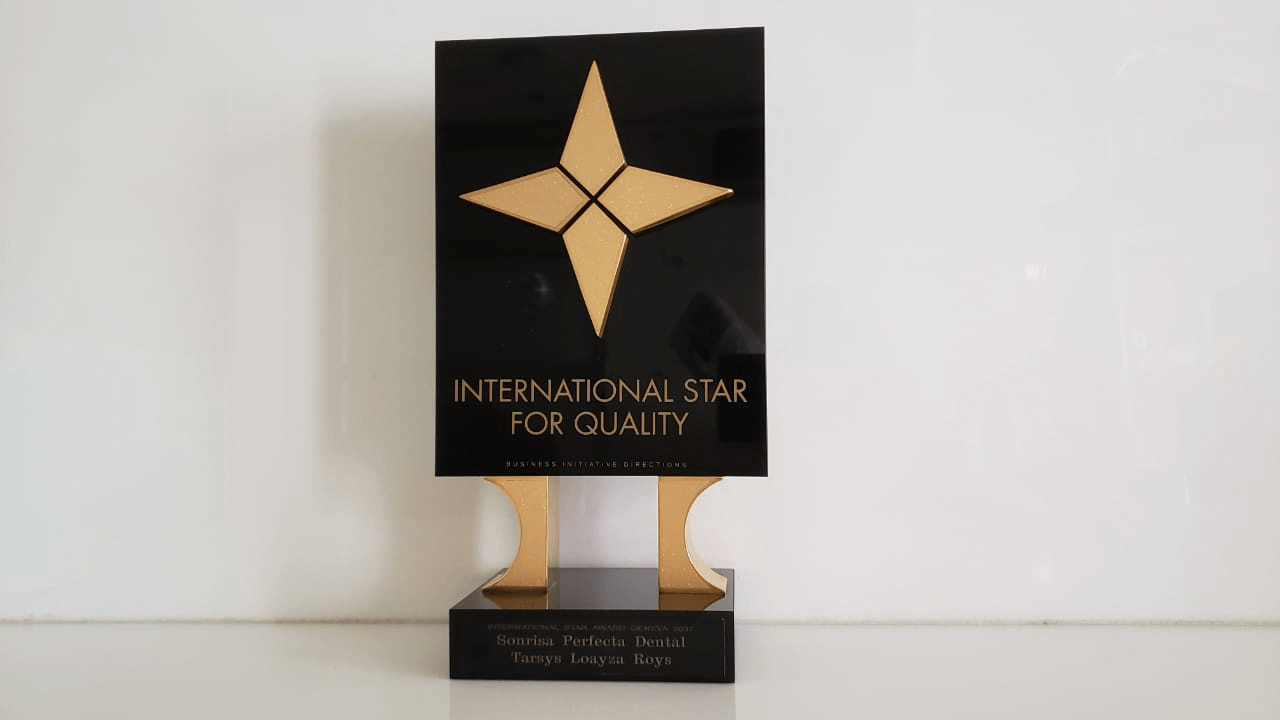
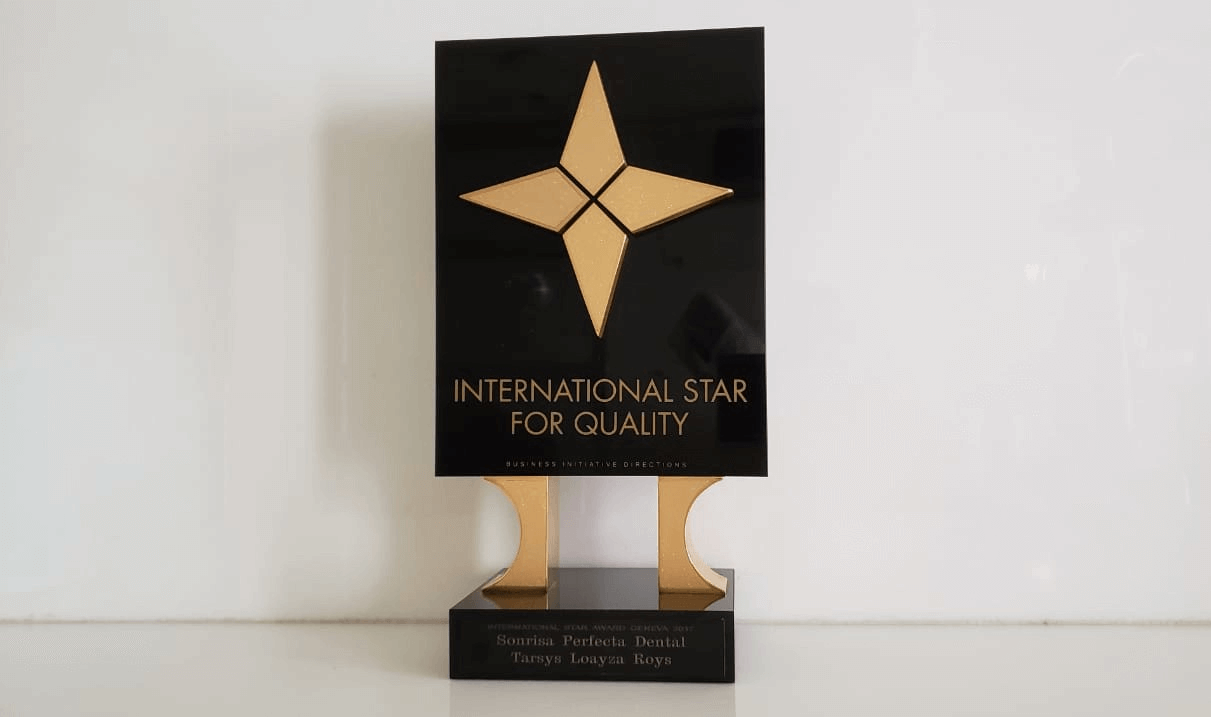
Página de premios terminada. Imagenes optimizadas al máximo

diff --git a/src/pages/Awards.js b/src/pages/Awards.js
@@ -1,0 +1,99 @@
+import React from "react";
+import { useTranslate } from "react-translate";
+
+import { Container, Row, Col, CardColumns } from "react-bootstrap";
+import Award from "../components/Award";
+
+import "./styles/Awards.css";
+import HeroSecondary from "../components/HeroSecondary";
+import awardHeroImage from "../images/premios/2.png";
+import award19 from "../images/premios/19.png";
+import award16 from "../images/premios/16.png";
+import award9 from "../images/premios/9.png";
+import award11 from "../images/premios/11.png";
+import award15 from "../images/premios/15.png";
+import award3 from "../images/premios/3.png";
+import award13 from "../images/premios/13.png";
+import award7 from "../images/premios/7.png";
+
+export default function Awards() {
+  let t = useTranslate("Awards");
+
+  return (
+    <>
+      <HeroSecondary image={awardHeroImage} title={t("awardsTitle")} />
+      <Container fluid className="background_secondary_color py-4">
+        <Row className="text-center">
+          <Col className="d-flex justify-content-center">
+            <CardColumns>
+              <Award
+                image={award19}
+                title={t("awardTitle19")}
+                text={t("awardText19")}
+                button={t("button")}
+                description={t("awardDescription19")}
+                className="mx-4"
+              />
+              <Award
+                image={award16}
+                title={t("awardTitle16")}
+                text={t("awardText16")}
+                button={t("button")}
+                description={t("awardDescription16")}
+                className="mx-4"
+              />
+              <Award
+                image={award9}
+                title={t("awardTitle9")}
+                text={t("awardText9")}
+                button={t("button")}
+                description={t("awardDescription9")}
+                className="mx-4"
+              />
+              <Award
+                image={award11}
+                title={t("awardTitle11")}
+                text={t("awardText11")}
+                button={t("button")}
+                description={t("awardDescription11")}
+                className="mx-4"
+              />
+              <Award
+                image={award15}
+                title={t("awardTitle15")}
+                text={t("awardText15")}
+                button={t("button")}
+                description={t("awardDescription15")}
+                className="mx-4"
+              />
+              <Award
+                image={award3}
+                title={t("awardTitle3")}
+                text={t("awardText3")}
+                button={t("button")}
+                description={t("awardDescription3")}
+                className="mx-4"
+              />
+              <Award
+                image={award13}
+                title={t("awardTitle13")}
+                text={t("awardText13")}
+                button={t("button")}
+                description={t("awardDescription13")}
+                className="mx-4"
+              />
+              <Award
+                image={award7}
+                title={t("awardTitle7")}
+                text={t("awardText7")}
+                button={t("button")}
+                description={t("awardDescription7")}
+                className="mx-4"
+              />
+            </CardColumns>
+          </Col>
+        </Row>
+      </Container>
+    </>
+  );
+}

diff --git a/src/components/Footer.js b/src/components/Footer.js
@@ -1,0 +1,52 @@
+import React from "react";
+import { useTranslate } from "react-translate";
+
+import { Container, Row, Col, Image } from "react-bootstrap";
+
+import "./styles/Footer.css";
+import eterwareLogo from "../images/varios/logotipo_eterware.png";
+import logo1 from "../images/varios/logos/1.png";
+import logo2 from "../images/varios/logos/2.png";
+import logo3 from "../images/varios/logos/3.png";
+import logo4 from "../images/varios/logos/4.png";
+
+export default function Footer() {
+  let t = useTranslate("Home");
+
+  return (
+    <Container fluid className="background_black_color font_white_color">
+      <Row className="py-3 px-2">
+        <Col
+          xs={12}
+          md={6}
+          className="d-flex flex-column align-items-center align-items-md-start"
+        >
+          <div className="eterware_container d-flex flex-column align-items-center">
+            <p>{t("eterware")}</p>
+            <a href={t("eterwareLink")} target="_blank">
+              <Image src={eterwareLogo} className="eterware_logo" />
+            </a>
+          </div>
+        </Col>
+        <Col
+          xs={12}
+          md={6}
+          className="d-flex flex-row justify-content-center justify-content-md-end"
+        >
+          <a href="https://www.ada.org/en" target="_blank">
+            <Image src={logo1} className="footer_image mx-2" />
+          </a>
+          <a href={t("bidLink")} target="_blank">
+            <Image src={logo2} className="footer_image mx-2" />
+          </a>
+          <a href="https://acprostodoncia.org.co/" target="_blank">
+            <Image src={logo3} className="footer_image mx-2" />
+          </a>
+          <a href="https://aacd.com/" target="_blank">
+            <Image src={logo4} className="footer_image mx-2" />
+          </a>
+        </Col>
+      </Row>
+    </Container>
+  );
+}

diff --git a/src/components/HeroSecondary.js b/src/components/HeroSecondary.js
@@ -1,0 +1,26 @@
+import React from "react";
+
+import { Image, Row, Col } from "react-bootstrap";
+import LazyLoad from "react-lazyload";
+
+import "./styles/HeroSecondary.css";
+import "../global_styles/fadeInUp.css";
+
+export default function HeroSecondary(props) {
+  return (
+    <Row noGutters>
+      <Col>
+        <div className="herosecondary">
+          <LazyLoad>
+            <Image src={props.image} className="herosecondary_image" />
+          </LazyLoad>
+          <div className="herosecondary_title_container">
+            <h1 className="herosecondary_title animated animatedFadeInUp fadeInUp text-center">
+              {props.title}
+            </h1>
+          </div>
+        </div>
+      </Col>
+    </Row>
+  );
+}

diff --git a/src/components/styles/HeroSecondary.css b/src/components/styles/HeroSecondary.css
@@ -1,0 +1,33 @@
+.herosecondary {
+  height: 300px;
+}
+
+.herosecondary_image {
+  position: relative;
+  width: 100%;
+  height: 100%;
+  object-fit: cover;
+  filter: grayscale(50%) brightness(50%);
+  -webkit-filter: grayscale(50%) brightness(50%);
+}
+
+.herosecondary_title_container {
+  width: 100%;
+  display: flex;
+  justify-content: center;
+  align-items: center;
+  height: 150px;
+  position: absolute;
+  bottom: 0;
+  color: var(--white-color);
+  background: linear-gradient(
+    180deg,
+    rgba(255, 255, 255, 0) 0%,
+    rgba(0, 0, 0, 0.7) 53%,
+    rgba(0, 0, 0, 1) 100%
+  );
+}
+
+.herosecondary_title {
+  line-height: 1.2;
+}

diff --git a/src/components/App.js b/src/components/App.js
@@ -3,6 +3,7 @@ import { TranslatorProvider } from "react-translate";
 import { BrowserRouter, Route, Switch } from "react-router-dom";
 
 import Home from "../pages/Home";
+import Awards from "../pages/Awards";
 import Layout from "./Layout";
 
 class App extends Component {
@@ -46,6 +47,7 @@ class App extends Component {
           >
             <Switch>
               <Route exact path="/" component={Home} />
+              <Route exact path="/premios" component={Awards} />
             </Switch>
           </Layout>
         </BrowserRouter>

diff --git a/src/pages/Home.js b/src/pages/Home.js
@@ -11,7 +11,7 @@ import ButtonPink from "../components/ButtonPink";
 
 import renaissanceHollywood from "../images/varios/renaissance_hollywood.png";
 import consultorio from "../images/consultorio/consultorio_9.png";
-import smile from "../images/varios/smile.jpg";
+import smile from "../images/varios/smile.png";
 import award19 from "../images/premios/19.png";
 import award16 from "../images/premios/16.png";
 import award9 from "../images/premios/9.png";

diff --git a/src/components/Award.js b/src/components/Award.js
@@ -17,7 +17,10 @@ export default function Award(props) {
     <>
       <Card
         style={{ width: "18rem" }}
-        className="Award d-flex flex-column align-items-center rounded-0 mb-4"
+        className={
+          props.className +
+          " Award d-flex flex-column align-items-center rounded-0 mb-4"
+        }
         onClick={handleShow}
       >
         <Card.Img className="Award_image" variant="top" src={props.image} />

diff --git a/src/components/Header.js b/src/components/Header.js
@@ -42,7 +42,7 @@ export default function Header(props) {
             </Link>
           </Nav.Link>
           <Nav.Link className="font_white_color">
-            <Link className="text-decoration-none text-reset" to="/#premios">
+            <Link className="text-decoration-none text-reset" to="/premios">
               {t("premios")}
             </Link>
           </Nav.Link>

diff --git a/src/components/Layout.js b/src/components/Layout.js
@@ -1,5 +1,6 @@
 import React from "react";
 import Header from "./Header";
+import Footer from "./Footer";
 
 export default function Layout(props) {
   return (
@@ -11,6 +12,7 @@ export default function Layout(props) {
         handleButtonES={props.handleButtonES}
       />
       {props.children}
+      <Footer />
     </>
   );
 }

diff --git a/src/components/styles/Footer.css b/src/components/styles/Footer.css
@@ -1,0 +1,18 @@
+.eterware_container {
+  width: 200px;
+}
+
+.eterware_logo {
+  width: 200px;
+}
+
+.footer_image {
+  height: 55px;
+  width: 55px;
+}
+
+@media screen and (max-width: 767px) {
+  .eterware_logo {
+    padding-bottom: 20px;
+  }
+}

diff --git a/src/pages/styles/Awards.css b/src/pages/styles/Awards.css
@@ -1,0 +1,15 @@
+.card-columns {
+  column-count: 1;
+}
+
+@media screen and (min-width: 768px) {
+  .card-columns {
+    column-count: 2;
+  }
+}
+
+@media screen and (min-width: 1100px) {
+  .card-columns {
+    column-count: 3;
+  }
+}
